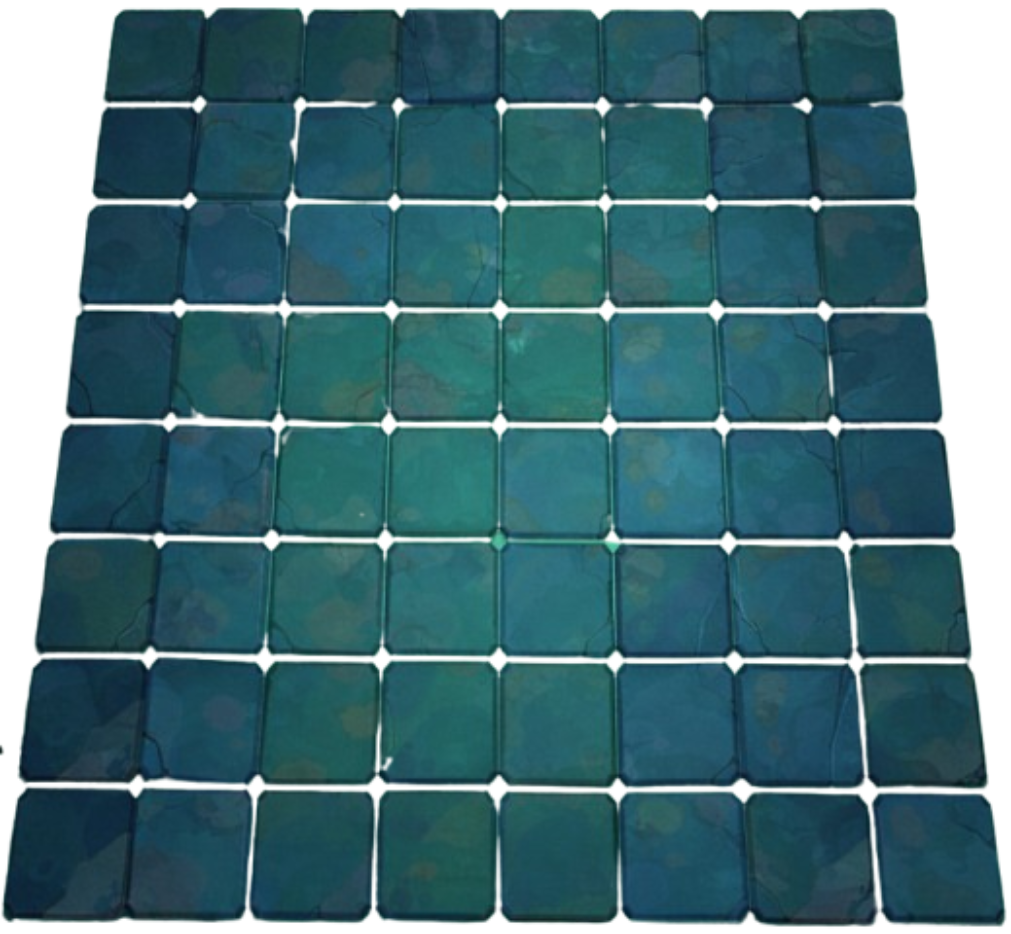
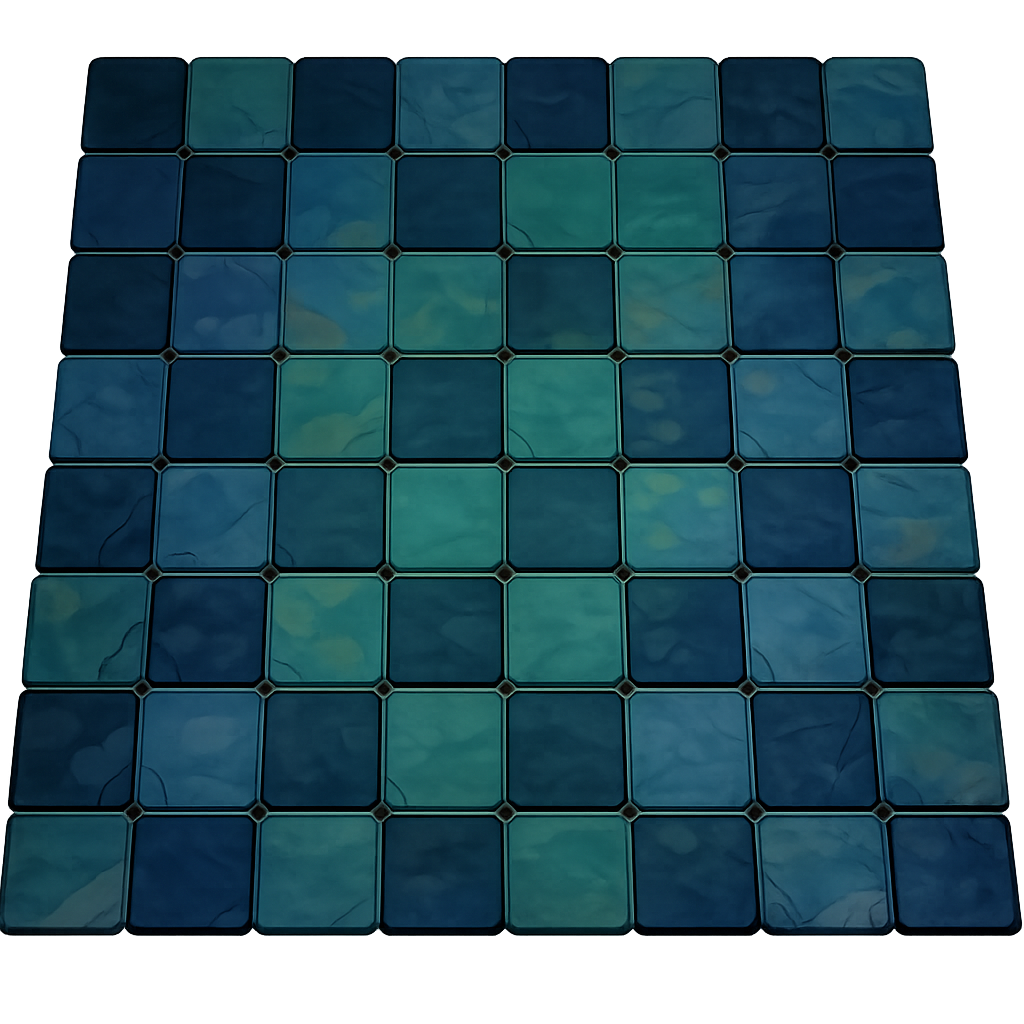
style(board): replace board art with new 1024x1024 design
Update chesscito-board assets (png/webp/avif), adjust aspect-ratio
to 1:1, and recalibrate board-geometry corner constants.

Wolfcito 🐾 @akawolfcito

diff --git a/apps/web/src/lib/game/board-geometry.ts b/apps/web/src/lib/game/board-geometry.ts
@@ -2,11 +2,11 @@
 
 export type Point = { x: number; y: number };
 
-// Corners calibrated from bg-with-grid.png pixel analysis (% of 1011×934 canvas)
-export const BOARD_TOP_LEFT: Point = { x: 11.6, y: 1.4 };
-export const BOARD_TOP_RIGHT: Point = { x: 88.2, y: 1.4 };
-export const BOARD_BOTTOM_LEFT: Point = { x: 0.1, y: 98.2 };
-export const BOARD_BOTTOM_RIGHT: Point = { x: 99.2, y: 98.2 };
+// Corners calibrated from new-board.png pixel analysis (% of 1024×1024 canvas)
+export const BOARD_TOP_LEFT: Point = { x: 12.0, y: 5.5 };
+export const BOARD_TOP_RIGHT: Point = { x: 88.0, y: 5.5 };
+export const BOARD_BOTTOM_LEFT: Point = { x: 0.5, y: 91.0 };
+export const BOARD_BOTTOM_RIGHT: Point = { x: 99.5, y: 91.0 };
 
 export function lerp(a: number, b: number, t: number) {
   return a + (b - a) * t;

diff --git a/apps/web/src/app/globals.css b/apps/web/src/app/globals.css
@@ -252,7 +252,7 @@
     position: relative;
     margin: 0 auto;
     width: min(100%, 23.5rem);
-    aspect-ratio: 1011 / 934;
+    aspect-ratio: 1 / 1;
     background-image: var(--playhub-board-bg);
     background-position: center;
     background-size: contain;

diff --git a/CLAUDE.md b/CLAUDE.md
@@ -18,7 +18,7 @@ Enseña movimientos de piezas de ajedrez con mecánicas gamificadas on-chain.
 ## Arquitectura de tablero
 - Imagen del tablero: `apps/web/public/art/chesscito-board.png`
   - Vista **plana/ortográfica** desde arriba (8x8 cuadros uniformes)
-  - Aspect ratio: 1011/934
+  - Aspect ratio: 1/1 (1024×1024)
 - Componente: `apps/web/src/components/board.tsx`
 - Hit-grid: `.playhub-board-hitgrid` con `inset: 4.9% 4.4% 3.6% 4.6%`
 - Pieza actual: Torre (♖) — lógica en `apps/web/src/lib/game/board.ts`
